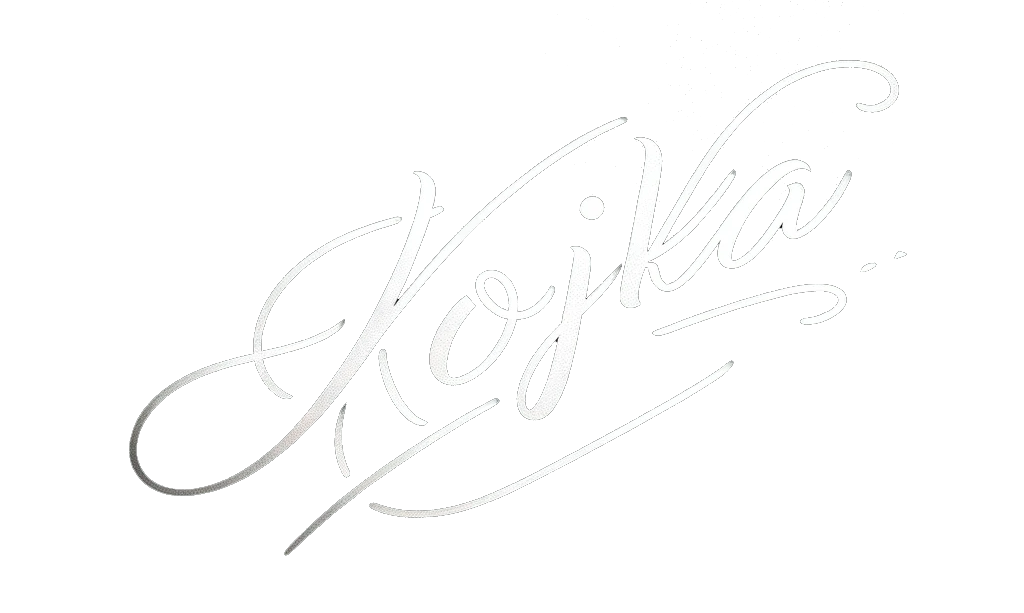
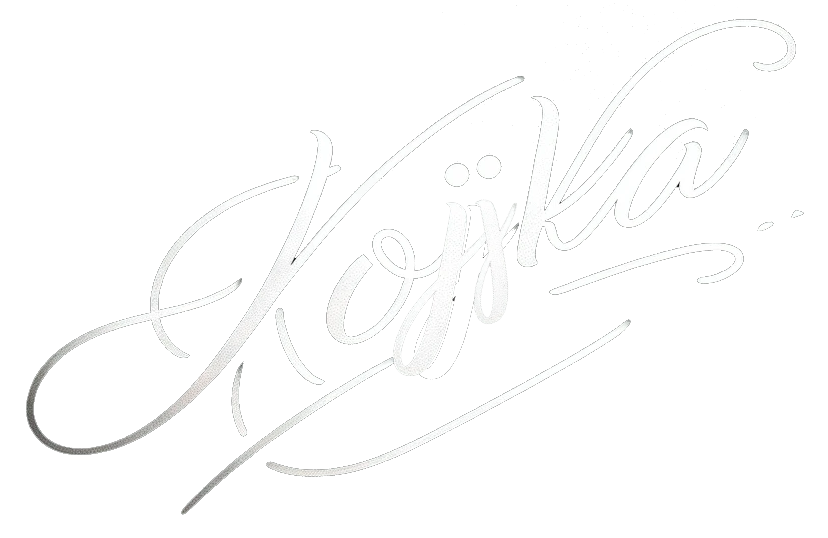
Updated signature

diff --git a/docs/_site/content/legal/disclaimer.html b/docs/_site/content/legal/disclaimer.html
@@ -215,7 +215,7 @@
     
 <h1 id="disclaimer">Disclaimer</h1>
 
-<p>Last updated: May 22, 2024</p>
+<p>Last updated: May 24, 2024</p>
 
 <p>The information contained on <span class="navbar-orange">thewriteplace</span><small><small>.rocks</small></small>.com (the “Service”) is for general information purposes only. <span class="navbar-orange">thewriteplace</span><small><small>.rocks</small></small> assumes no responsibility for errors or omissions in the contents on the Service.</p>
 

diff --git a/docs/_site/blog/writing/2024/05/22/the-fawn-engine-post/index.html b/docs/_site/blog/writing/2024/05/22/the-fawn-engine-post/index.html
@@ -245,7 +245,7 @@ and remember—every great story starts with a single word.</p>
 
 <p>So, welcome to The Write Place, where your writing journey finds its perfect home.</p>
 
-<div style="width: 100vw; display: block; align-content: center">
+<div style="display: block; align-content: center">
         <img style="width:320px; display: block; margin-left: auto; margin-right: auto;" alt="FAWN Engine Logo" src="/assets/images/kojika-signature.png" />
 </div>
 

diff --git a/docs/_site/content/legal/cookies.html b/docs/_site/content/legal/cookies.html
@@ -215,7 +215,7 @@
     
 <h1 id="cookies-policy">Cookies Policy</h1>
 
-<p>Last updated: May 22, 2024</p>
+<p>Last updated: May 24, 2024</p>
 
 <p><span class="navbar-orange">thewriteplace</span><small><small>.rocks</small></small> (“us”, “we”, or “our”) uses cookies on <span class="navbar-orange">thewriteplace</span><small><small>.rocks</small></small>.com (the “Service”). By using the Service, you consent to the use of cookies.</p>
 
